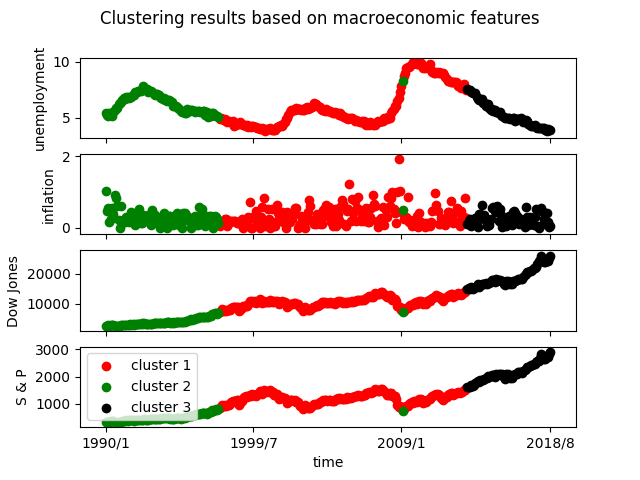
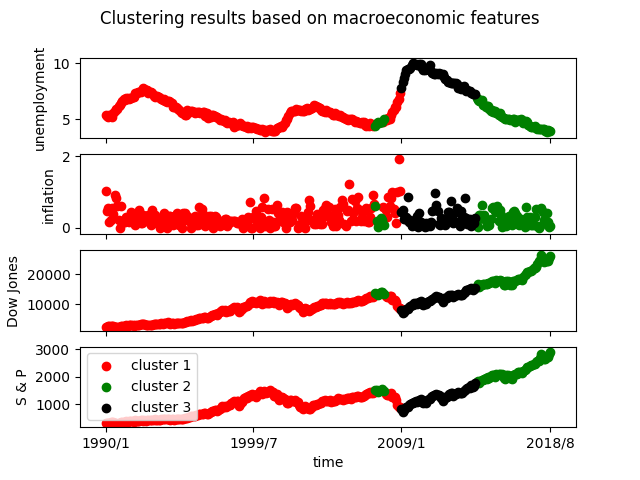
Revise plotting code

diff --git a/figre1Code.py b/figre1Code.py
@@ -30,6 +30,7 @@ def getInputData(fileName):
 
 
 if __name__ == '__main__':
+    # getting data for each macroeconomic features into trainable format
     unemployment = []
     with open("data/unemployment", 'r') as f:
        for line in f:
@@ -57,15 +58,24 @@ if __name__ == '__main__':
     
     clusterData = np.array([unemployment, inflation, djia, sp]).T
     np.savetxt('data/clusterData.txt', clusterData)
+
+
+    # scale data before performing clustering algorithm to avoid one feature dominate others
+    scaler = StandardScaler() 
+    scaledData = scaler.fit_transform(clusterData)
    
     sampleSize = np.size(clusterData, axis=0)
     clusterNum = 3
-    kmeans = KMeans(n_clusters=clusterNum, random_state=41).fit(clusterData)
+    kmeans = KMeans(n_clusters=clusterNum, random_state=41).fit(scaledData)
     labels = kmeans.labels_
 
+
+    # create date index for plot
     dateIndex = pd.date_range('1/1/1990', '9/1/2018', freq='M')
     index = np.array([str(i) + '/' + str(j) for i,j in zip(dateIndex.year, dateIndex.month)])
+
     featureNames = ['unemployment', 'inflation', 'Dow Jones', 'S & P']
+
     fig, axes = plt.subplots(4, 1, sharex=True)
     xticks = np.linspace(0, sampleSize - 1, 4, dtype=np.int32)
     colors = ['r', 'g', 'k']

diff --git a/README.md b/README.md
@@ -1,1 +1,11 @@
 ![GitHub Logo](./clusterResult.png)
+   
+The first step in our stock prices movement prediction algorithm is to cluster the months in the
+training sets into 3 clusters based on 4 macroeconomic features: unemployment rate, inflation rate,
+level of Dow Jones Industrial Averages and level of S & P 500. 
+
+In the previous plot, we displayed the clutering results based on KMean clustering algorithm. Each
+point represents a certain month and its color represents a cluster it belongs to.
+
+As displayed in the plot, the clustering algorithm really nicely separated data into 3 distinct
+clusters. 
